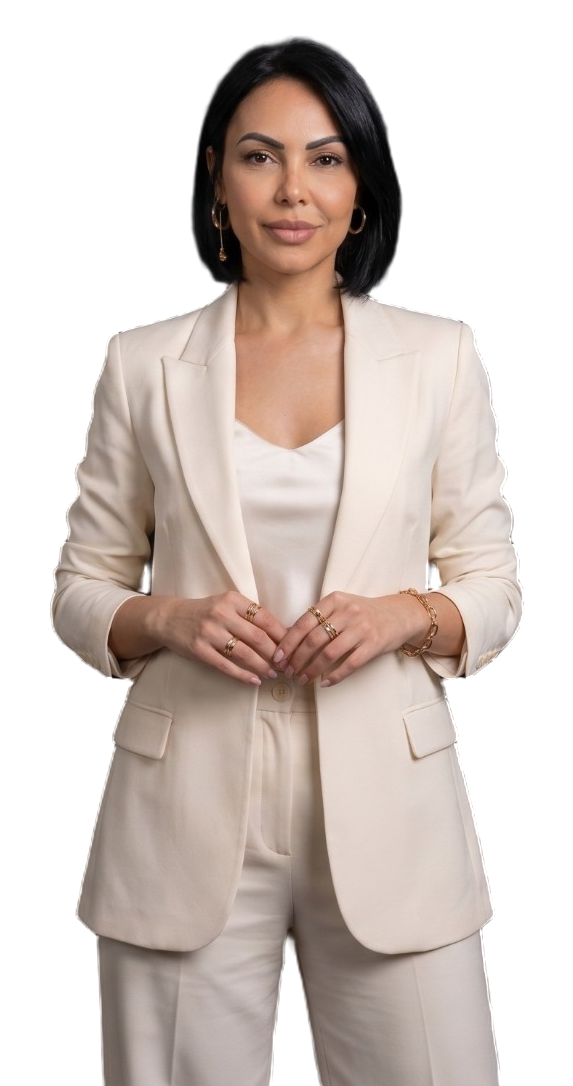
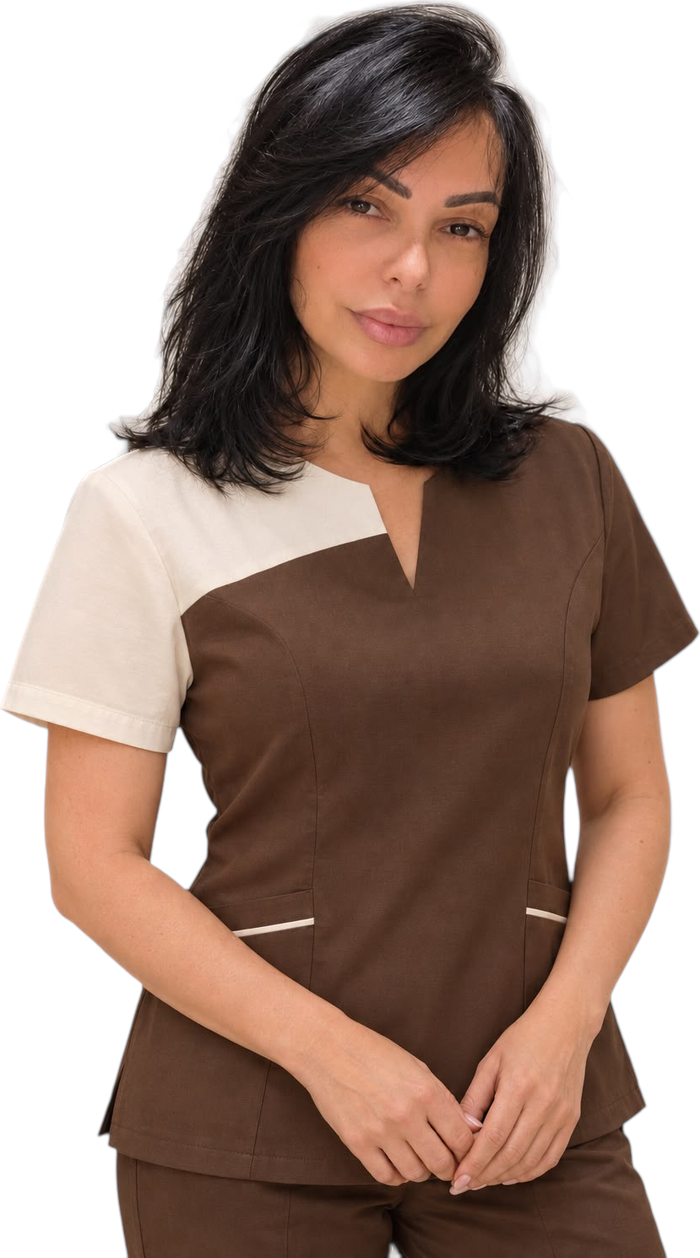
Marga: novas fotos e novos contatos (Uboldo)
- Hero: Marga com o uniforme marrom (foto nova, recortada)
- Mosaico e Formazione: novas fotos recortadas (uniforme, camisa de cetim, vestido)
- Contatos: Via Quattro Novembre 93, 21040 Uboldo (VA), +39 352 280 2247,
  info@margabeauty.com, @margabeauty_official

Claude-Session: https://claude.ai/code/session_01GKT9b9FkTAiSNP1Ddj9Tzx

diff --git a/marga-beauty/src/content/it.ts b/marga-beauty/src/content/it.ts
@@ -11,7 +11,7 @@ export const it: SiteContent = {
   meta: {
     title: "Marga Beauty — Estetica avanzata, linfodrenaggio brasiliano e podologia",
     description:
-      "Trattamenti viso e corpo con tecnologie di ultima generazione, linfodrenaggio Metodo Renata França e podologia a Rovello Porro (CO). Prenota online con gli orari disponibili in tempo reale.",
+      "Trattamenti viso e corpo con tecnologie di ultima generazione, linfodrenaggio Metodo Renata França e podologia a Uboldo (VA). Prenota online con gli orari disponibili in tempo reale.",
   },
 
   header: {
@@ -21,14 +21,14 @@ export const it: SiteContent = {
 
   visuals: {
     placeholder: "Foto provvisoria",
-    labels: { rosto: "Viso", corpo: "Corpo", drenagem: "Linfodrenaggio", podologia: "Podologia", marga: "Marga" },
+    labels: { rosto: "Viso", corpo: "Corpo", drenagem: "Linfodrenaggio", podologia: "Podologia", marga: "Marga", margaDivisa: "Marga", margaCamicia: "Marga", margaAbito: "Marga" },
   },
 
   hero: {
     title: "La Tua Bellezza in Perfetto Equilibrio",
     asideTop: "Estetica Avanzata",
     asideBottom: ["Podologia &", "Linfodrenaggio Brasiliano"],
-    imageAlt: "Marga, fondatrice di Marga Beauty, in tailleur chiaro",
+    imageAlt: "Marga, fondatrice di Marga Beauty, con la divisa del centro",
     galleryLabel: "Trattamenti di Marga Beauty",
   },
 
@@ -260,7 +260,7 @@ export const it: SiteContent = {
       { title: "Podologia", meta: "Formazione professionale", image: "podologia" },
       { title: "Metodo Renata França", meta: "Linfodrenaggio brasiliano", image: "drenagem" },
       { title: "Estetica Avanzata", meta: "Tecnologie per viso e corpo", image: "rosto" },
-      { title: "Trattamenti Donna e Uomo", meta: "Protocolli su misura per ogni persona", image: "marga" },
+      { title: "Trattamenti Donna e Uomo", meta: "Protocolli su misura per ogni persona", image: "margaDivisa" },
     ],
   },
 

diff --git a/marga-beauty/src/config/business.ts b/marga-beauty/src/config/business.ts
@@ -10,24 +10,23 @@ export type WeeklyHours = Record<1 | 2 | 3 | 4 | 5 | 6 | 7, TimeRange[]>;
 
 export const business = {
   name: "Marga Beauty",
-  address: "Via L. Carcano, 11",
-  postalCode: "22070",
-  city: "Rovello Porro",
-  /** Sigla da província (Como). */
-  province: "CO",
+  address: "Via Quattro Novembre, 93",
+  postalCode: "21040",
+  city: "Uboldo",
+  /** Sigla da província (Varese). */
+  province: "VA",
   country: "Italia",
   /** Número com DDI, só dígitos: usado no link direto do WhatsApp. */
-  whatsapp: "393758620602",
-  phoneDisplay: "+39 375 862 0602",
-  // TODO: e-mail de contato (vazio esconde a linha no rodapé)
-  email: "",
-  instagram: "https://www.instagram.com/marga_beauty_official/",
-  instagramHandle: "@marga_beauty_official",
+  whatsapp: "393522802247",
+  phoneDisplay: "+39 352 280 2247",
+  email: "info@margabeauty.com",
+  instagram: "https://www.instagram.com/margabeauty_official/",
+  instagramHandle: "@margabeauty_official",
   // TODO: na Itália a Partita IVA precisa aparecer no site.
   vatNumber: "",
 };
 
-/** Endereço completo no formato italiano: "Via L. Carcano, 11, 22070 Rovello Porro (CO), Italia". */
+/** Endereço completo no formato italiano: "Via Quattro Novembre, 93, 21040 Uboldo (VA), Italia". */
 export function fullAddress() {
   const { address, postalCode, city, province, country } = business;
   const locality = [postalCode, city].filter(Boolean).join(" ") + (province ? ` (${province})` : "");

diff --git a/marga-beauty/src/content/pt.ts b/marga-beauty/src/content/pt.ts
@@ -22,14 +22,14 @@ export const pt = {
   /** Cartazes provisórios (até chegarem as fotos de cada área). */
   visuals: {
     placeholder: "Foto provisória",
-    labels: { rosto: "Rosto", corpo: "Corpo", drenagem: "Drenagem Linfática", podologia: "Podologia", marga: "Marga" },
+    labels: { rosto: "Rosto", corpo: "Corpo", drenagem: "Drenagem Linfática", podologia: "Podologia", marga: "Marga", margaDivisa: "Marga", margaCamicia: "Marga", margaAbito: "Marga" },
   },
 
   hero: {
     title: "Sua Beleza em Perfeito Equilíbrio",
     asideTop: "Estética Avançada",
     asideBottom: ["Podologia &", "Drenagem Brasileira"],
-    imageAlt: "Marga, fundadora da Marga Beauty, de terninho claro",
+    imageAlt: "Marga, fundadora da Marga Beauty, com o uniforme do espaço",
     galleryLabel: "Tratamentos da Marga Beauty",
   },
 
@@ -264,7 +264,7 @@ export const pt = {
       { title: "Podologia", meta: "Formação profissional", image: "podologia" },
       { title: "Método Renata França", meta: "Drenagem linfática brasileira", image: "drenagem" },
       { title: "Estética Avançada", meta: "Tecnologias para rosto e corpo", image: "rosto" },
-      { title: "Atendimento Feminino e Masculino", meta: "Protocolos para cada pessoa", image: "marga" },
+      { title: "Atendimento Feminino e Masculino", meta: "Protocolos para cada pessoa", image: "margaDivisa" },
     ],
   },
 

diff --git a/marga-beauty/src/content/images.ts b/marga-beauty/src/content/images.ts
@@ -16,15 +16,18 @@ export const visuals = {
   corpo: { tone: "bronze" },
   drenagem: { tone: "petrol" },
   podologia: { tone: "tortora" },
-  marga: { src: "/images/marga-hero.webp", cutout: true, tone: "bronze" },
+  marga: { src: "/images/marga-blazer.webp", cutout: true, tone: "bronze" },
+  margaDivisa: { src: "/images/marga-divisa.webp", cutout: true, tone: "tortora" },
+  margaCamicia: { src: "/images/marga-camicia.webp", cutout: true, tone: "petrol" },
+  margaAbito: { src: "/images/marga-abito.webp", cutout: true, tone: "nude" },
 } satisfies Record<string, VisualSpec>;
 
 export type VisualKey = keyof typeof visuals;
 
-export const hero = { src: "/images/marga-hero.webp", fallback: "/images/marga-hero.png", width: 573, height: 1086 };
+export const hero = { src: "/images/marga-hero.webp", fallback: "/images/marga-hero.png", width: 700, height: 1254 };
 
 /** Mosaico que aparece atrás do hero quando ele encolhe (duas colunas em loop). */
 export const gallery: { columnA: VisualKey[]; columnB: VisualKey[] } = {
-  columnA: ["rosto", "corpo", "rosto", "corpo"],
-  columnB: ["drenagem", "marga", "drenagem", "marga"],
+  columnA: ["rosto", "margaAbito", "corpo", "margaCamicia"],
+  columnB: ["margaDivisa", "drenagem", "marga", "podologia"],
 };

diff --git a/marga-beauty/README.md b/marga-beauty/README.md
@@ -203,8 +203,8 @@ redireciona para lá).
 
 ## Pendências com a cliente
 
-- [x] Endereço (Via L. Carcano, 11, 22070 Rovello Porro, CO) e WhatsApp
-      (+39 375 862 0602) — `src/config/business.ts`
+- [x] Endereço (Via Quattro Novembre, 93, 21040 Uboldo, VA) e WhatsApp
+      (+39 352 280 2247), e-mail info@margabeauty.com, Instagram @margabeauty_official — `src/config/business.ts`
 - [ ] E-mail de contato e **Partita IVA** (obrigatória no site de empresas na
       Itália) — `src/config/business.ts`
 - [ ] Horários reais de atendimento e dias fechados
